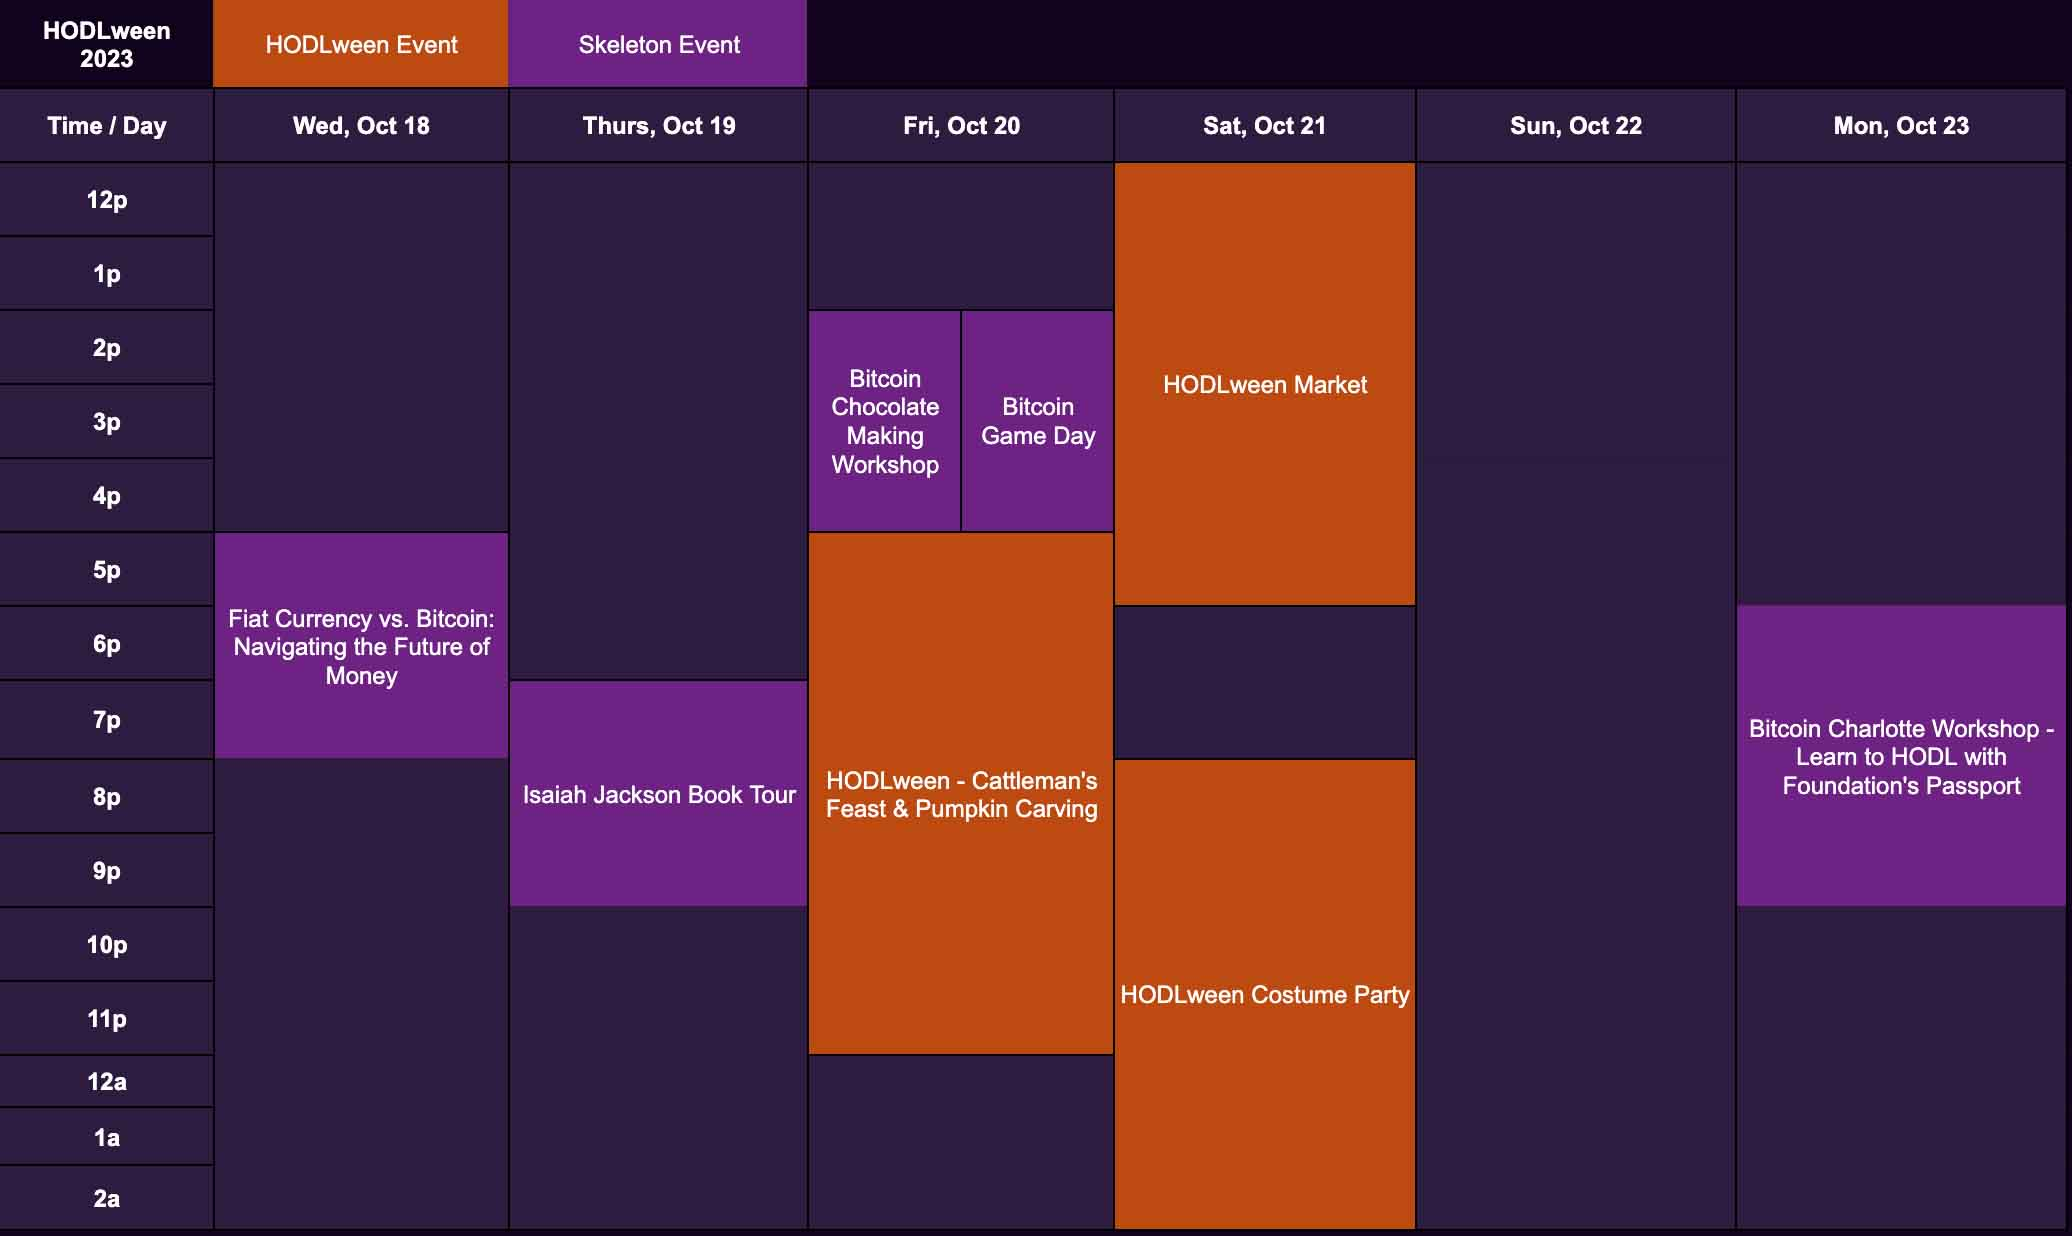
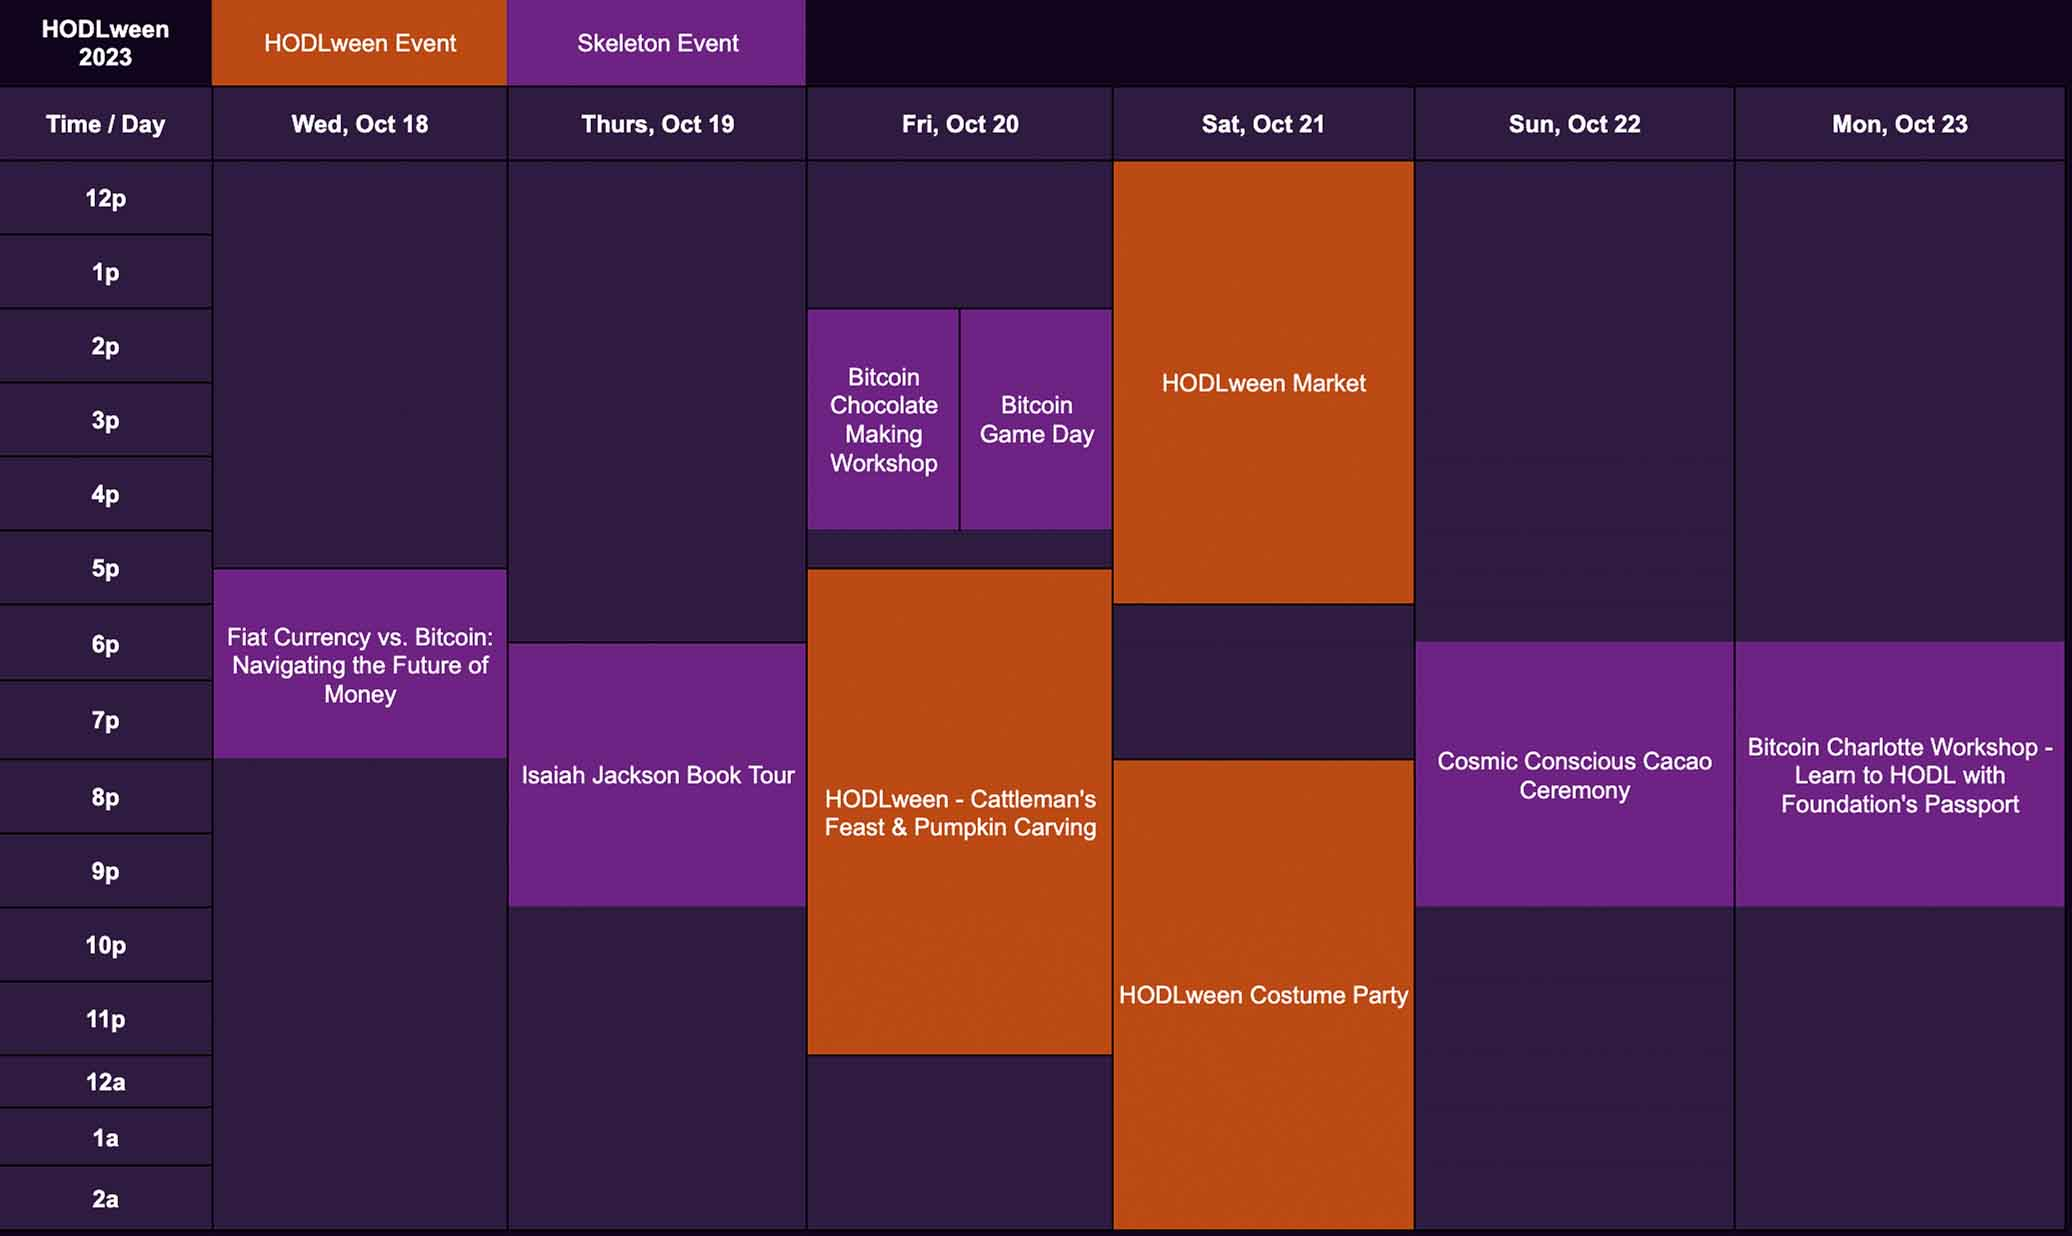
Update scedule. new event.

diff --git a/source/assets/css/app.scss b/source/assets/css/app.scss
@@ -32,6 +32,7 @@ $table-color5: #22122e;
 html {
   scroll-behavior: smooth;
 }
+
 body.special-event {
   background: #11051d url(/assets/img/repeat-bg.jpg) repeat-x top center;
   background-size: 10px 1488px;

diff --git a/source/events.md b/source/events.md
@@ -85,7 +85,7 @@ active_tab: events
     <h6>Isaiah Jackson Book Tour</h6>
     <div class="white-divider"><div></div></div>
     <div class="details"><div>
-        October 19th, 2023 &nbsp;&nbsp;&nbsp; 7p-9p &nbsp;&nbsp;&nbsp; <span>Jackalope Jack's, 1801 Commonwealth Ave, Charlotte, NC 28205</span>
+        October 19th, 2023 &nbsp;&nbsp;&nbsp; 6:30p-9p &nbsp;&nbsp;&nbsp; <span>Jackalope Jack's, 1801 Commonwealth Ave, Charlotte, NC 28205</span>
     </div></div>
     <p>Come meet Isaiah Jackson and hear about his new book, Bitcoin and Black America 2. There will be a short presentation, Q&A, book signing and giveaways! Isaiah is from Charlotte and is a best selling author, host of the podcast The Gentlemen of Crypto, creator of Bitcoin Summer Camp, and founder of the Bitcoin Boat Club.</p>
     <p>Free event. No ticket required. Just show up!</p>
@@ -122,6 +122,18 @@ active_tab: events
     </ul>
 </article>
 
+<article>
+    <div class="color-image"><img src="/assets/img/2023-jane-cacao-ceremony.jpg" /></div>
+    <h6>Cosmic Conscious Cacao Ceremony</h6>
+    <div class="white-divider"><div></div></div>
+    <div class="details"><div>
+        October 22nd, 2023 &nbsp;&nbsp;&nbsp; 6:30p-9p &nbsp;&nbsp;&nbsp; <span>Big Love Yoga Barn, 1911 Central Avenue Charlotte, NC 28205</span>
+    </div></div>
+    <p>Join spiritual guide & quantum shaman Jane Ritz as she serves sacred Cacao to open the Heart & connect with Cosmic Consciousness. Cacao is an ancient plant medicine that has been known as the 'food of the gods', naturally designed to flood us with endorphins, bliss, & gratitude. The medicine is here to remind us that we are all connected; to the Earth, to the Cosmos, to each other.</p>
+    <ul class="buy-links">
+        <li><a href="https://www.eventbrite.com/e/cosmic-conscious-cacao-ceremony-tickets-729747202527" target="_blank" class="orange-pill-btn">RSVP</a></li>
+    </ul>
+</article>
 
 <article>
     <div class="color-image"><img src="/assets/img/2023-bitcoin-charlotte-workshop.jpg" /></div>
